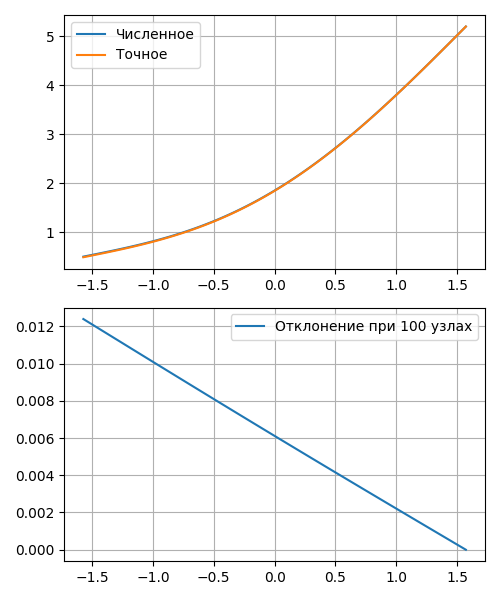
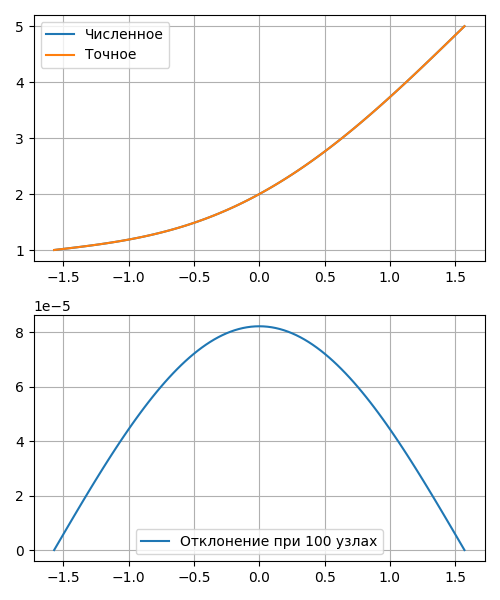
change function for calculation of exact solution

diff --git a/tasks/tridiagonal_matrix_algorithm/tridiagonal_matrix_algorithm.py b/tasks/tridiagonal_matrix_algorithm/tridiagonal_matrix_algorithm.py
@@ -83,23 +83,23 @@ def get_bounds(h: float) -> (list, list):
     return get_left(), get_right()
 
 
-def examples(option: int, h: float):
+def examples(option: int, h: float) -> (List, List, Callable):
     assert option in [1, 2, 3]
 
     # y'(-pi/2) = 3
     # y(pi/2) = 4
     if option == 1:
-        return [-1 / h, 1 / h, 3], [0, 1, 4]
+        return [-1 / h, 1 / h, 3], [0, 1, 4], lambda x: - cos(x) + 4 * x + (4 - 4 * pi / 2)
 
     # y(-pi/2) = 0.5
     # y(pi/2) = 5.2
     elif option == 2:
-        return [1, 0, 0.5], [0, 1, 5.2]
+        return [1, 0, 1], [0, 1, 5], lambda x: - cos(x) + 4 * x / pi + 3
 
     # y(-pi/2) = -0.8
     # y'(pi/2) = -0.1
     else:
-        return [1, 0, -0.8], [1 / h, -1 / h, -0.1]
+        return [1, 0, -0.8], [1 / h, -1 / h, -0.1], lambda x: -cos(x) + (-0.8 + 1) * x + (-0.1 - (-0.8 + 1) * pi / 2)
 
 
 # Функция для отображения максимального отклонения численного решения от точного.
@@ -113,14 +113,11 @@ def plot_max_deviation(option: int, bounds: tuple, func: Callable):
 
     for amount in STEPS:
         h = (r - l) / amount
-        left, right = examples(option, h)
+        left, right, exact_function = examples(option, h)
         A, B, C, F, X = get_matrices(func, left, right, bounds, amount)
         Y = tridiagonal_method(A, B, C, F)
-        m1 = left[2]
-        m2 = right[2]
-        c1 = m1 + 1
-        c2 = m2 - c1 * pi / 2
-        Y_exact = [(-cos(x) + c1 * x + c2) for x in X]
+
+        Y_exact = [exact_function(x) for x in X]
         deviation = [abs(Y[i] - Y_exact[i]) for i in range(len(Y))]
 
         # plot
@@ -169,6 +166,6 @@ if __name__ == "__main__":
     FUNC = lambda x: cos(x)
 
     # для выбора примера (1, 2, 3)
-    OPTION = 1
+    OPTION = 2
     plot_max_deviation(OPTION, BOUNDS, FUNC)
     # plot_solution_with_set_conditions(BOUNDS, NODES_AMOUNT, FUNC)
